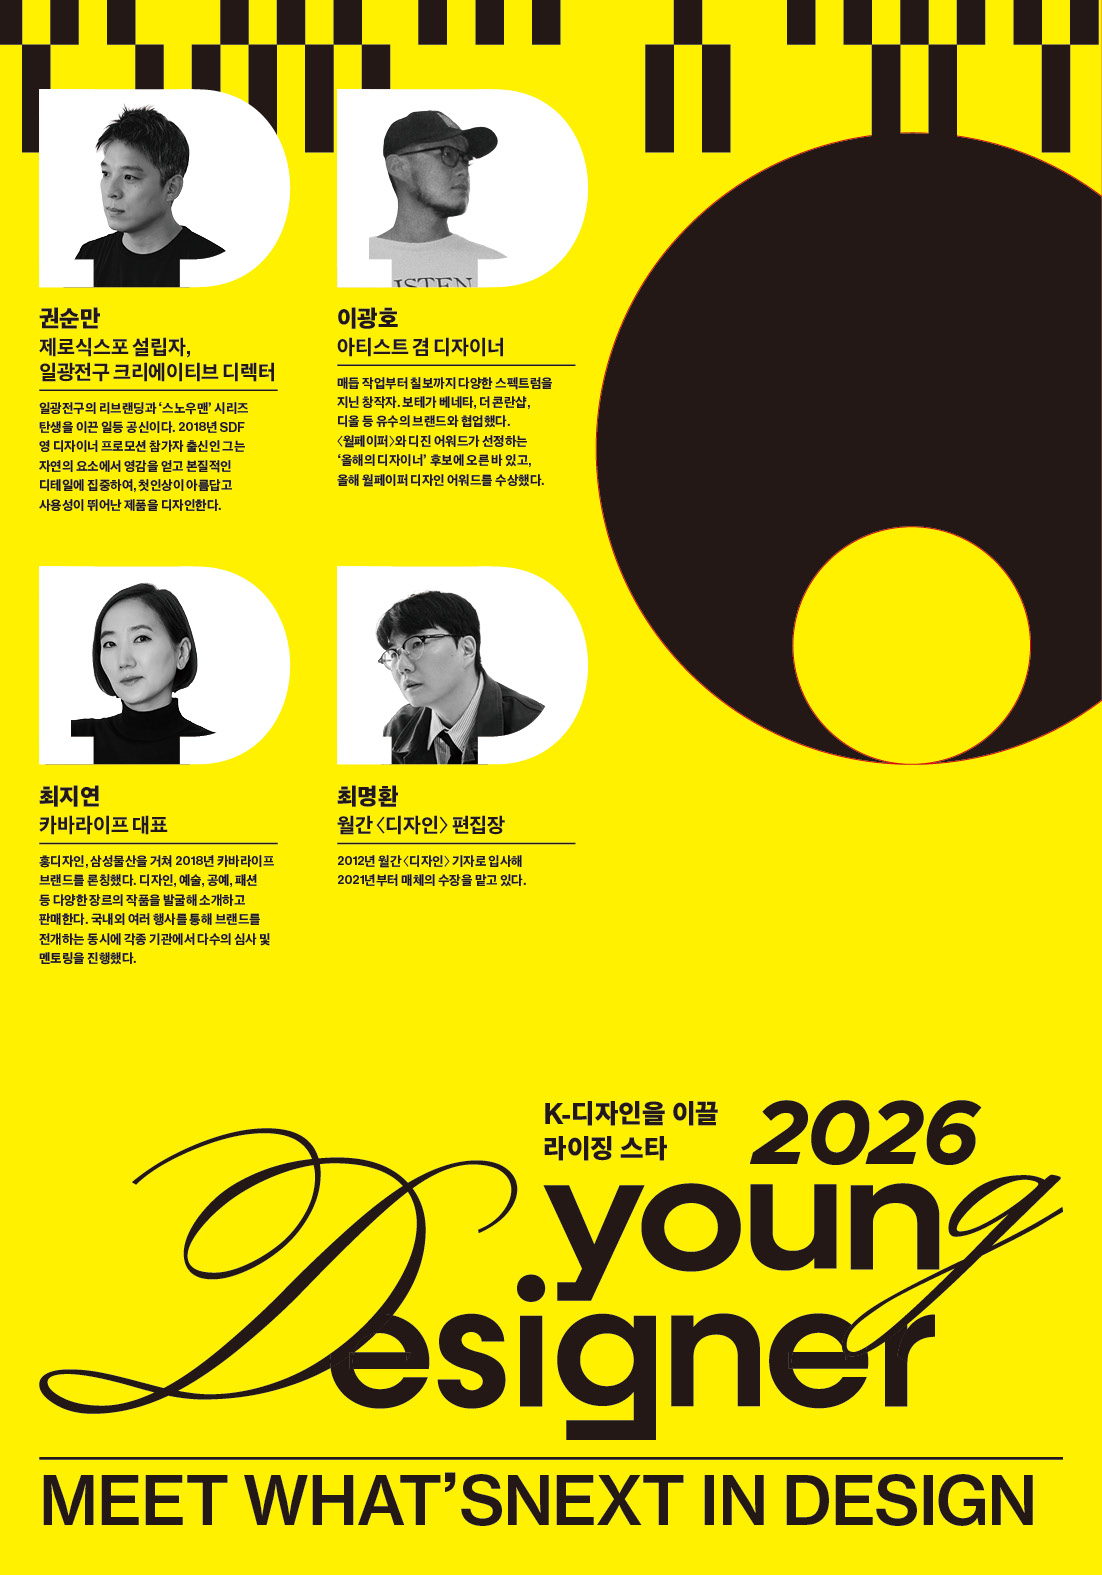
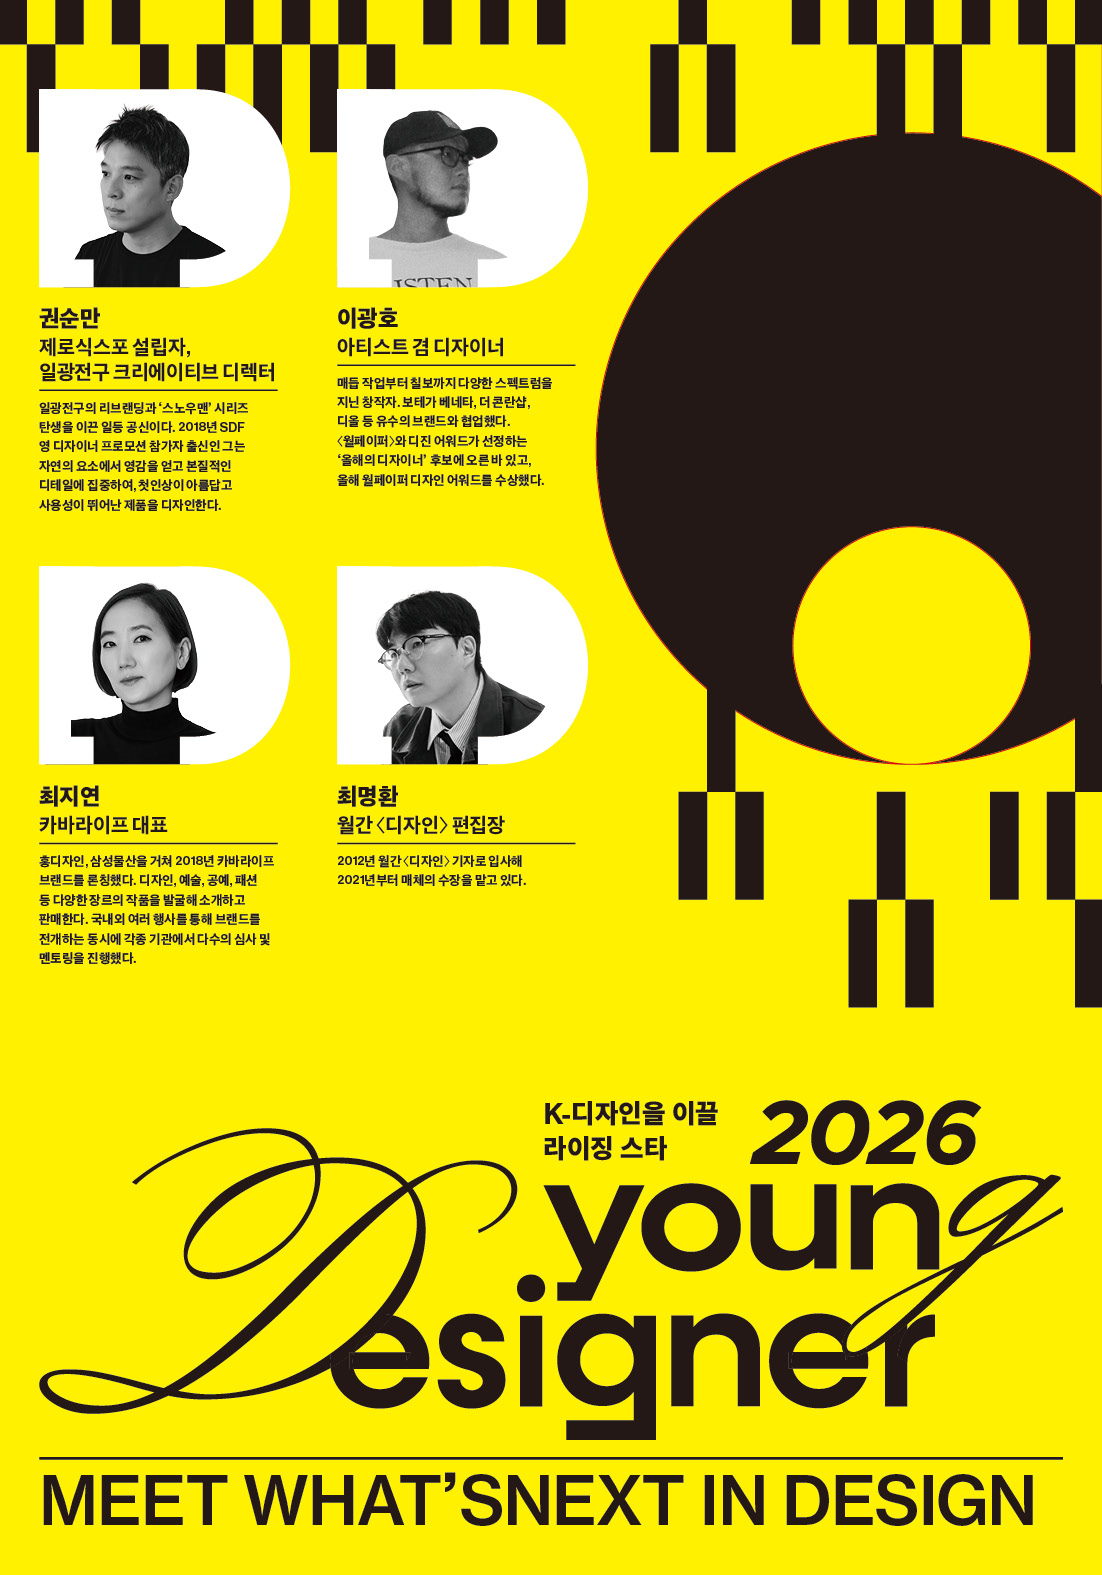
물결 기둥 앞면에 D 패널 그래픽 이어 붙이기, C·D·F 패널 갱신

diff --git a/index.html b/index.html
@@ -269,6 +269,11 @@ html { -webkit-text-size-adjust: 100%; }
   byId.B.mesh = edgePlane(byId.B, 0, 0, 0, 2205, 2000, EPS);
   byId.C.mesh = facePanel(C_OUT, 7200, 10000, 0, 4000, wz(1604) + EPS);
   byId.D.mesh = facePanel(D_OUT, 10000, 18000, 0, 4500, wz(2400) + EPS);
+  // 물결 기둥 앞면: D 패널 이미지를 같은 좌표로 이어 붙임 (인디자인 68쪽의 빨간 물결선 안쪽)
+  (function () {
+    var f = facePanel(GEOM.scallop, 10000, 18000, 0, 4500, wz(2520) + EPS);
+    f.material.dispose(); f.material = byId.D.mesh.material;
+  })();
   byId.E.mesh = rectPanel(18000, 19800, 0, 3600, wz(2400) + EPS);
   // F: centred on the beam's front face (P4→P3)
   (function () {
@@ -326,7 +331,7 @@ html { -webkit-text-size-adjust: 100%; }
   /* ---------- panel list UI ---------- */
   var list = $('panels');
   PANELS.forEach(function (p) {
-    p.defUrl = 'panels/' + p.id + '.jpg?v=261119f';
+    p.defUrl = 'panels/' + p.id + '.jpg?v=261119g';
     var li = document.createElement('li'); li.id = 'row-' + p.id;
     li.innerHTML =
       '<button class="thumb" type="button" aria-label="' + p.id + ' ' + p.name + ' 이미지 올리기"><img alt=""></button>' +
